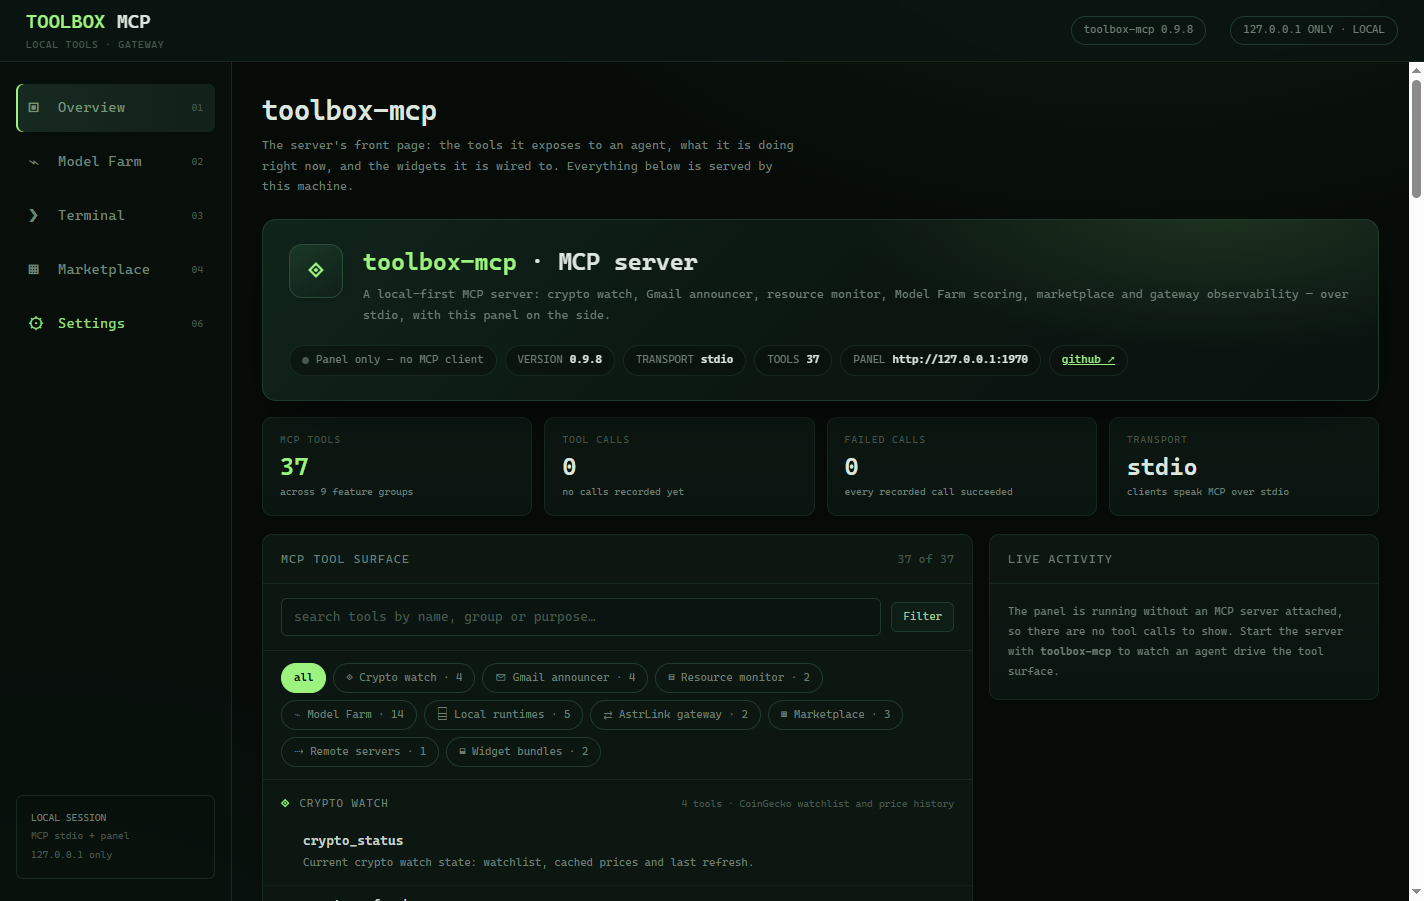
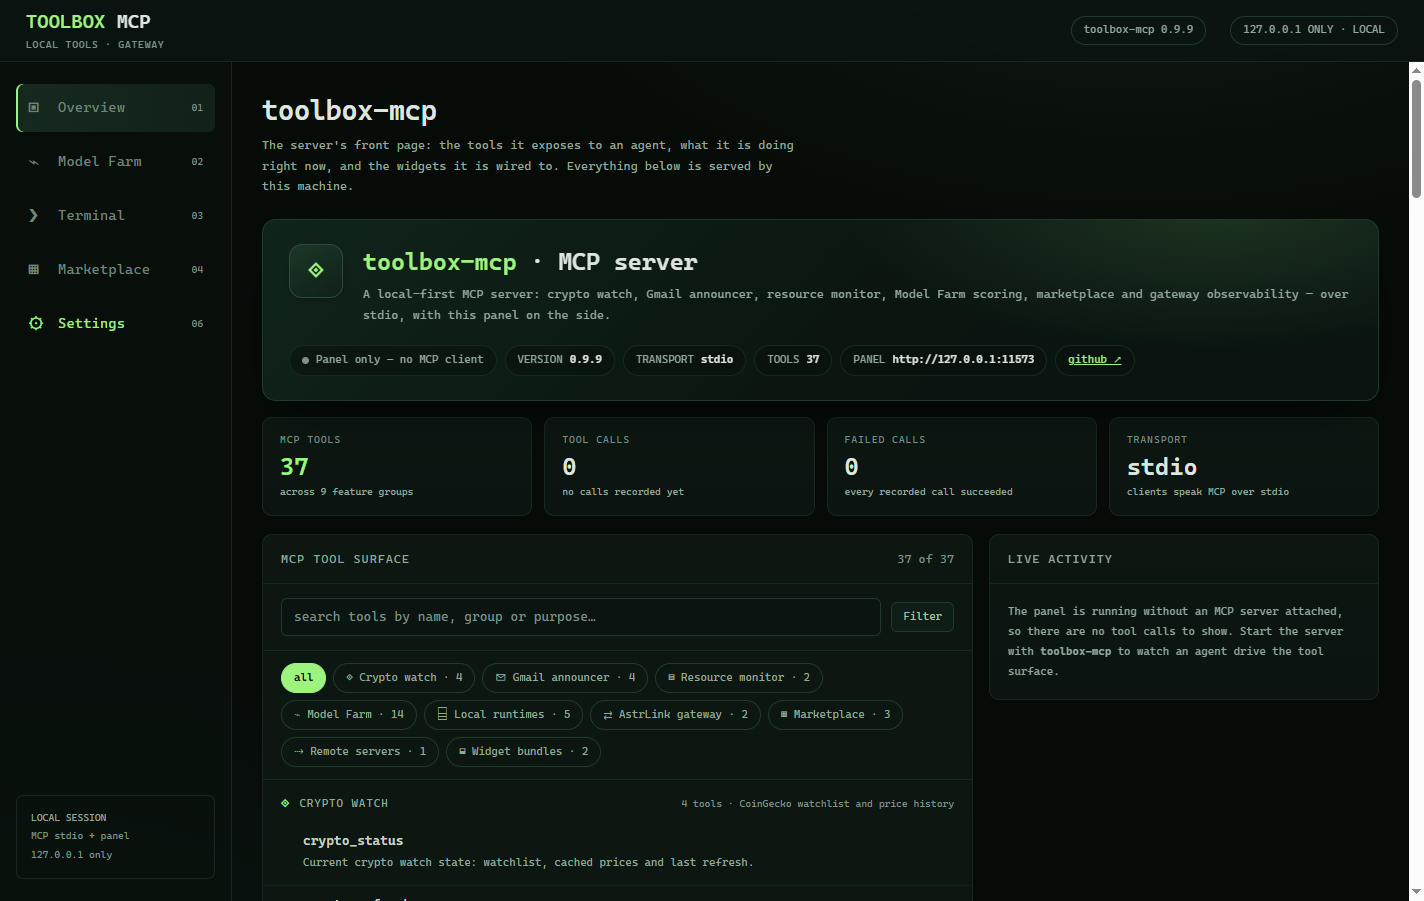
release: 0.9.9
Ships the panel contrast fix from 2bdd49c. The Overview screenshot in
docs/ is regenerated from the packaged build so it shows the new tokens,
the download links move to v0.9.9, and the lockfile's root version is
synced from 0.9.6 to the manifest.

diff --git a/docs/index.html b/docs/index.html
@@ -114,10 +114,10 @@
       <section class="download">
         <h2>Download the Model Farm app</h2>
         <div class="buttons">
-          <a class="btn primary" href="https://github.com/acsdd/toolbox-mcp/releases/download/v0.9.8/ModelFarm-Setup-0.9.8.exe">Model Farm 0.9.8 — Installer (125 MB)</a>
-          <a class="btn" href="https://github.com/acsdd/toolbox-mcp/releases/download/v0.9.8/ModelFarm-Portable-0.9.8.exe">Model Farm 0.9.8 — Portable (113 MB)</a>
+          <a class="btn primary" href="https://github.com/acsdd/toolbox-mcp/releases/download/v0.9.9/ModelFarm-Setup-0.9.9.exe">Model Farm 0.9.9 — Installer (125 MB)</a>
+          <a class="btn" href="https://github.com/acsdd/toolbox-mcp/releases/download/v0.9.9/ModelFarm-Portable-0.9.9.exe">Model Farm 0.9.9 — Portable (113 MB)</a>
         </div>
-        <p class="note">Windows, no Node.js and no administrator rights. The binaries are not code-signed, so SmartScreen shows an "unverified publisher" warning on first start. Older builds: <a href="https://github.com/acsdd/toolbox-mcp/releases">all releases</a>. Verify a download with <a href="https://github.com/acsdd/toolbox-mcp/releases/download/v0.9.8/SHA256SUMS.txt">SHA256SUMS.txt</a>.</p>
+        <p class="note">Windows, no Node.js and no administrator rights. The binaries are not code-signed, so SmartScreen shows an "unverified publisher" warning on first start. Older builds: <a href="https://github.com/acsdd/toolbox-mcp/releases">all releases</a>. Verify a download with <a href="https://github.com/acsdd/toolbox-mcp/releases/download/v0.9.9/SHA256SUMS.txt">SHA256SUMS.txt</a>.</p>
       </section>
       <div class="cards">
         <a class="card" href="https://github.com/acsdd/toolbox-mcp#readme"><span class="label">Readme</span><span class="note">What the project is and how to run it</span></a>

diff --git a/README.md b/README.md
@@ -16,15 +16,15 @@ no Node.js and no administrator rights.
 
 | Build | What it is | Size |
 | --- | --- | --- |
-| [`ModelFarm-Setup-0.9.8.exe`](https://github.com/acsdd/toolbox-mcp/releases/download/v0.9.8/ModelFarm-Setup-0.9.8.exe) | Assisted installer — no administrator rights, you pick the folder, optional Desktop and Start-menu shortcuts | 124.8 MB |
-| [`ModelFarm-Portable-0.9.8.exe`](https://github.com/acsdd/toolbox-mcp/releases/download/v0.9.8/ModelFarm-Portable-0.9.8.exe) | No installer and no registry writes; its data lives next to the executable | 113.1 MB |
+| [`ModelFarm-Setup-0.9.9.exe`](https://github.com/acsdd/toolbox-mcp/releases/download/v0.9.9/ModelFarm-Setup-0.9.9.exe) | Assisted installer — no administrator rights, you pick the folder, optional Desktop and Start-menu shortcuts | 124.8 MB |
+| [`ModelFarm-Portable-0.9.9.exe`](https://github.com/acsdd/toolbox-mcp/releases/download/v0.9.9/ModelFarm-Portable-0.9.9.exe) | No installer and no registry writes; its data lives next to the executable | 113.1 MB |
 
 Install, update, roll back and uninstall are described in
 [docs/install.md](docs/install.md). Older builds are on the
 [releases page](https://github.com/acsdd/toolbox-mcp/releases). The binaries are
 not code-signed, so Windows SmartScreen shows an "unverified publisher" warning
 on first start. Each release ships
-[`SHA256SUMS.txt`](https://github.com/acsdd/toolbox-mcp/releases/download/v0.9.8/SHA256SUMS.txt)
+[`SHA256SUMS.txt`](https://github.com/acsdd/toolbox-mcp/releases/download/v0.9.9/SHA256SUMS.txt)
 so a download can be checked with `sha256sum -c SHA256SUMS.txt`.
 
 Part of the Toolbox family:
@@ -278,7 +278,7 @@ present with its dependencies installed.
 
 ```bash
 npm install
-npm run portable      # → dist/ModelFarm-Portable-0.9.8.exe + dist/ModelFarm-Setup-0.9.8.exe
+npm run portable      # → dist/ModelFarm-Portable-0.9.9.exe + dist/ModelFarm-Setup-0.9.9.exe
 ```
 
 Smoke-test the packaged app before shipping it — point the script at the
@@ -313,11 +313,11 @@ the widget core repo, so **the widget core has to be published first**:
 ```bash
 npm run portable
 npm run release:notes -- --to HEAD --out release-notes.md
-git tag v0.9.8
+git tag v0.9.9
 git push origin main --tags
-gh release create v0.9.8 \
-  dist/ModelFarm-Portable-0.9.8.exe dist/ModelFarm-Setup-0.9.8.exe dist/SHA256SUMS.txt \
-  --title "Model Farm 0.9.8" --notes-file docs/release-notes-0.9.8.md
+gh release create v0.9.9 \
+  dist/ModelFarm-Portable-0.9.9.exe dist/ModelFarm-Setup-0.9.9.exe dist/SHA256SUMS.txt \
+  --title "Model Farm 0.9.9" --notes-file docs/release-notes-0.9.9.md
 ```
 
 `npm run portable` writes `dist/SHA256SUMS.txt` itself, so the checksum file in

diff --git a/docs/release-notes-0.9.9.md b/docs/release-notes-0.9.9.md
@@ -1,0 +1,50 @@
+# Model Farm 0.9.9
+
+A readability fix for the ops panel, plus two pieces of release housekeeping.
+
+## Secondary panel text now meets WCAG AA
+
+The panel's two muted text tokens sat below the 4.5:1 contrast floor on
+every surface they are used on, and both are set at 9.9–12px:
+
+| Token | Before | Measured contrast | After | Measured contrast |
+| --- | --- | --- | --- | --- |
+| muted | `#6d7f74` | 4.31:1 on the page, 3.97:1 on cards | `#93a79a` | 7.35–7.78:1 |
+| dim | `#46584d` | 2.41:1 on the page | `#7d9185` | 5.03–5.91:1 |
+
+The measurements are computed in the running panel — the page background,
+the card and badge backgrounds and the sidebar — with the same colour values
+the browser resolves. No layout or palette change beyond those two tokens,
+and the documented Overview screenshot is refreshed from the packaged build.
+
+## Lockfile version caught up
+
+`package-lock.json` still named `0.9.6` in its root fields, three releases
+behind the manifest. Both root entries now read `0.9.9`, so the lockfile
+describes the package it belongs to.
+
+## Verification
+
+- 282 MCP tests pass; typecheck is clean.
+- The packaged smoke test passes: sandboxed window, panel bound to the
+  loopback address, the 37-tool catalogue served, and the Overview
+  screenshot regenerated.
+- The install probe passes against both payloads — the portable app and the
+  Setup artifact's extracted payload: 37 tools, matching panel catalogue,
+  successful read-only call, MCP client journey.
+- The secondary-runtime probe detects 10 runtimes and passes switching to
+  LM Studio, unknown-runtime refusal, the non-Ollama removal guard and
+  restore.
+- No Model Farm, gateway, marketplace or remote-server code changed, so the
+  download journeys were not re-run.
+
+No widget-core change ships in this release; it stays at 0.2.2.
+
+## Verify the download
+
+```text
+518bd09521bb977567f353ca3871f34a063f355f21943317b21d61e3d8e05344  ModelFarm-Portable-0.9.9.exe  (113,133,221 bytes)
+7fd2e6627069f5c572af726c290b5a84c78b02b65440d1058d7e50f673ede0a6  ModelFarm-Setup-0.9.9.exe     (124,820,363 bytes)
+```
+
+PowerShell: `Get-FileHash .\ModelFarm-Portable-0.9.9.exe -Algorithm SHA256`.
